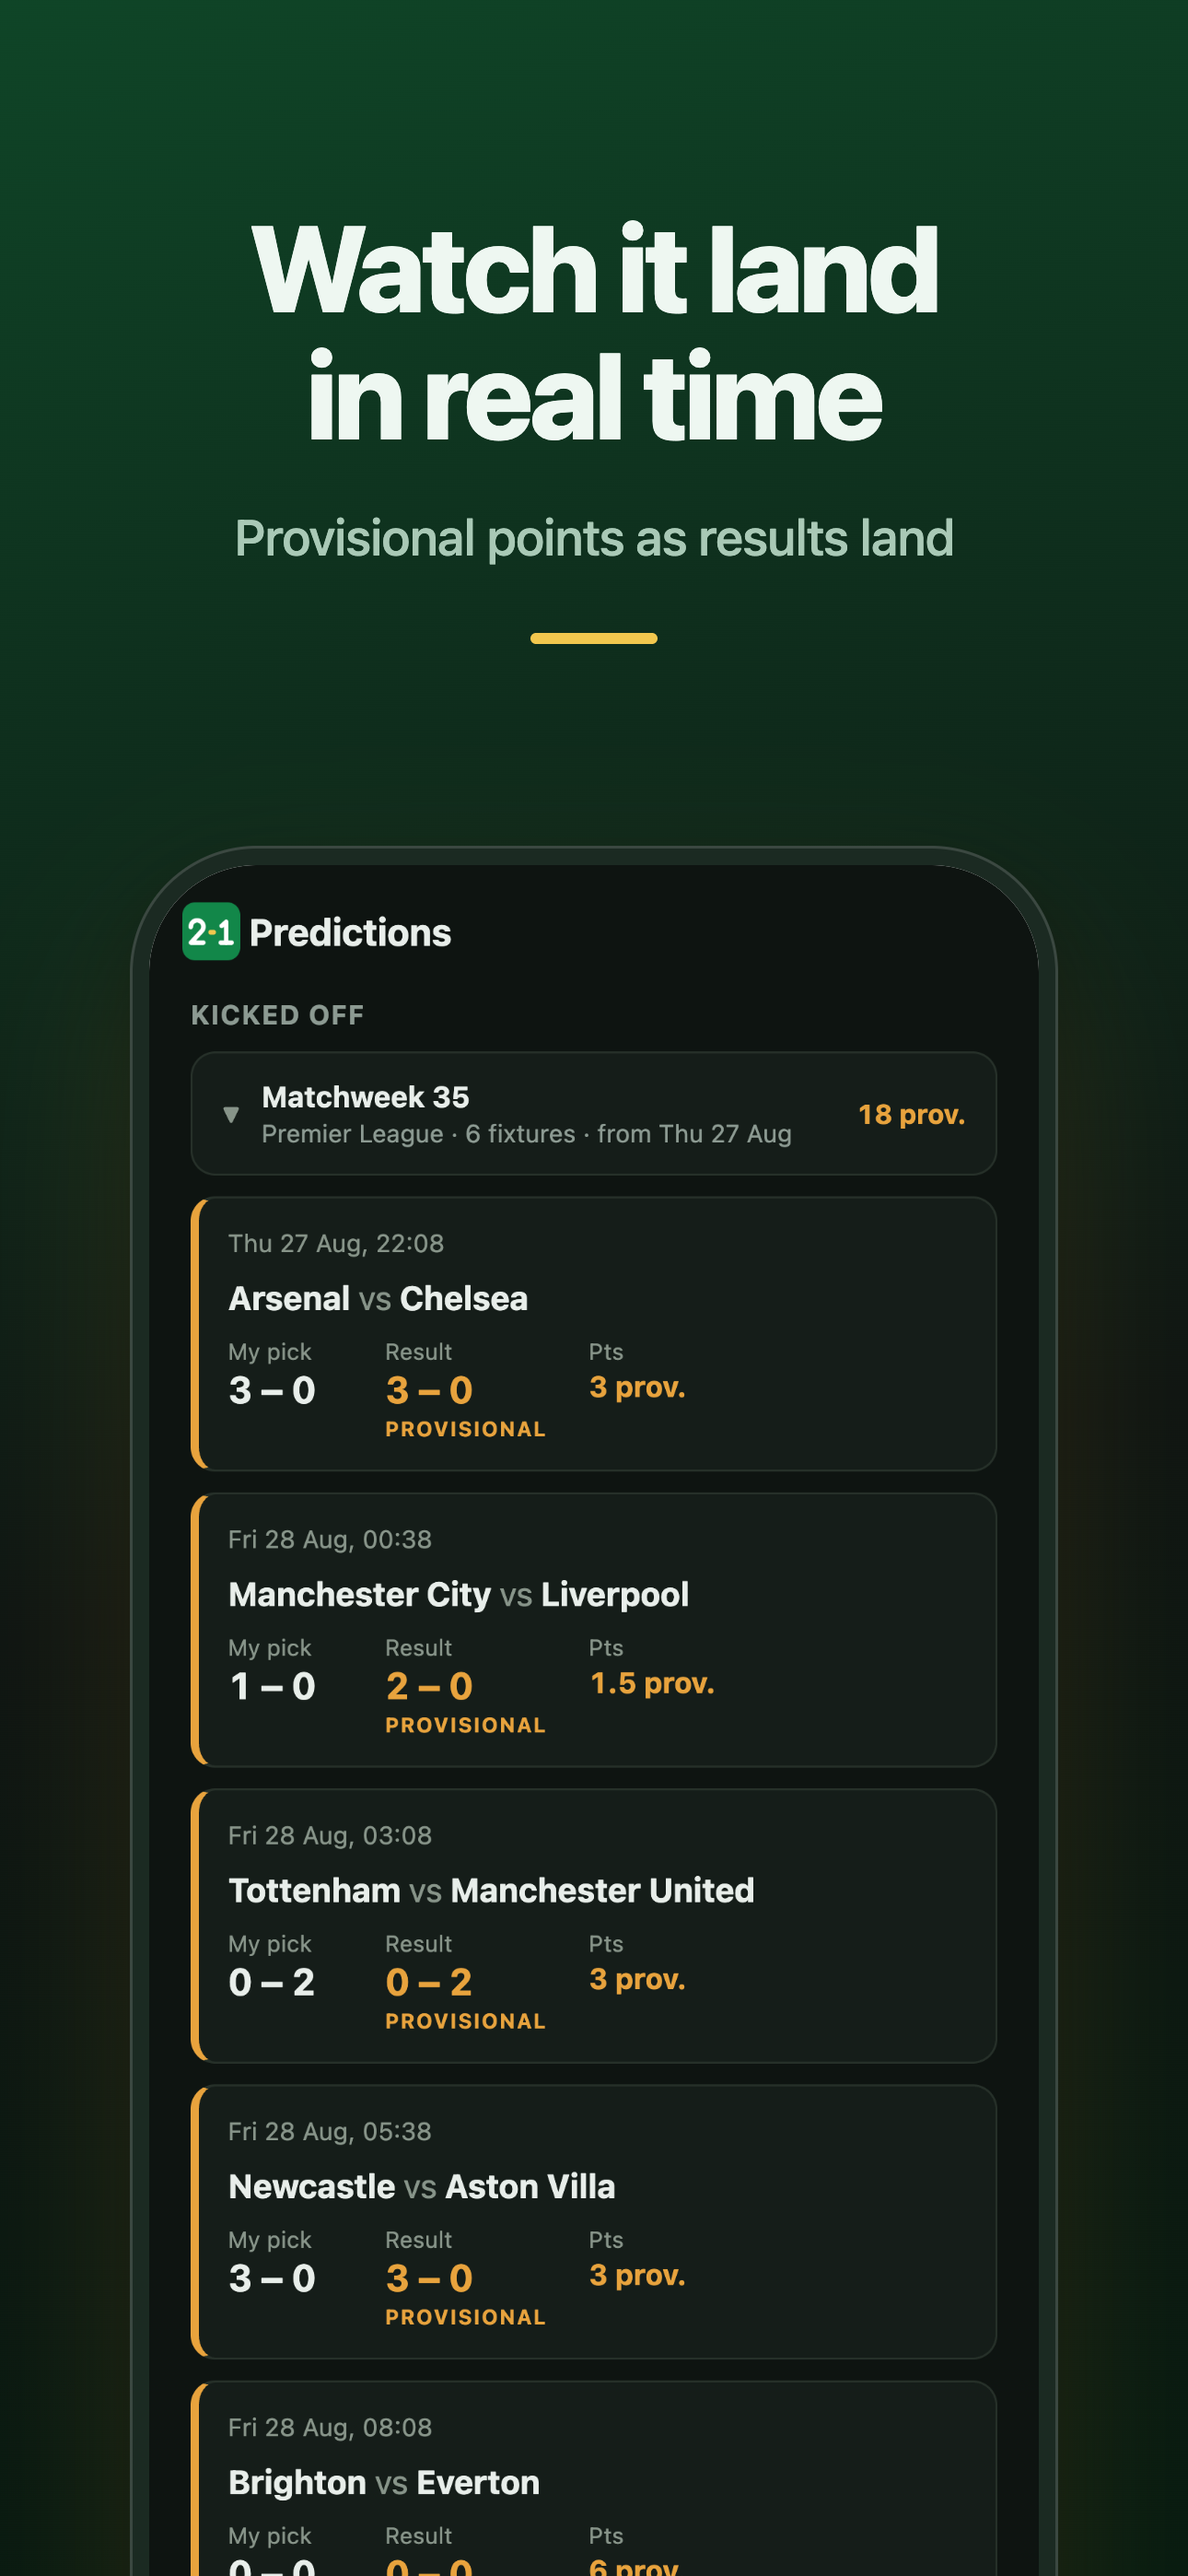
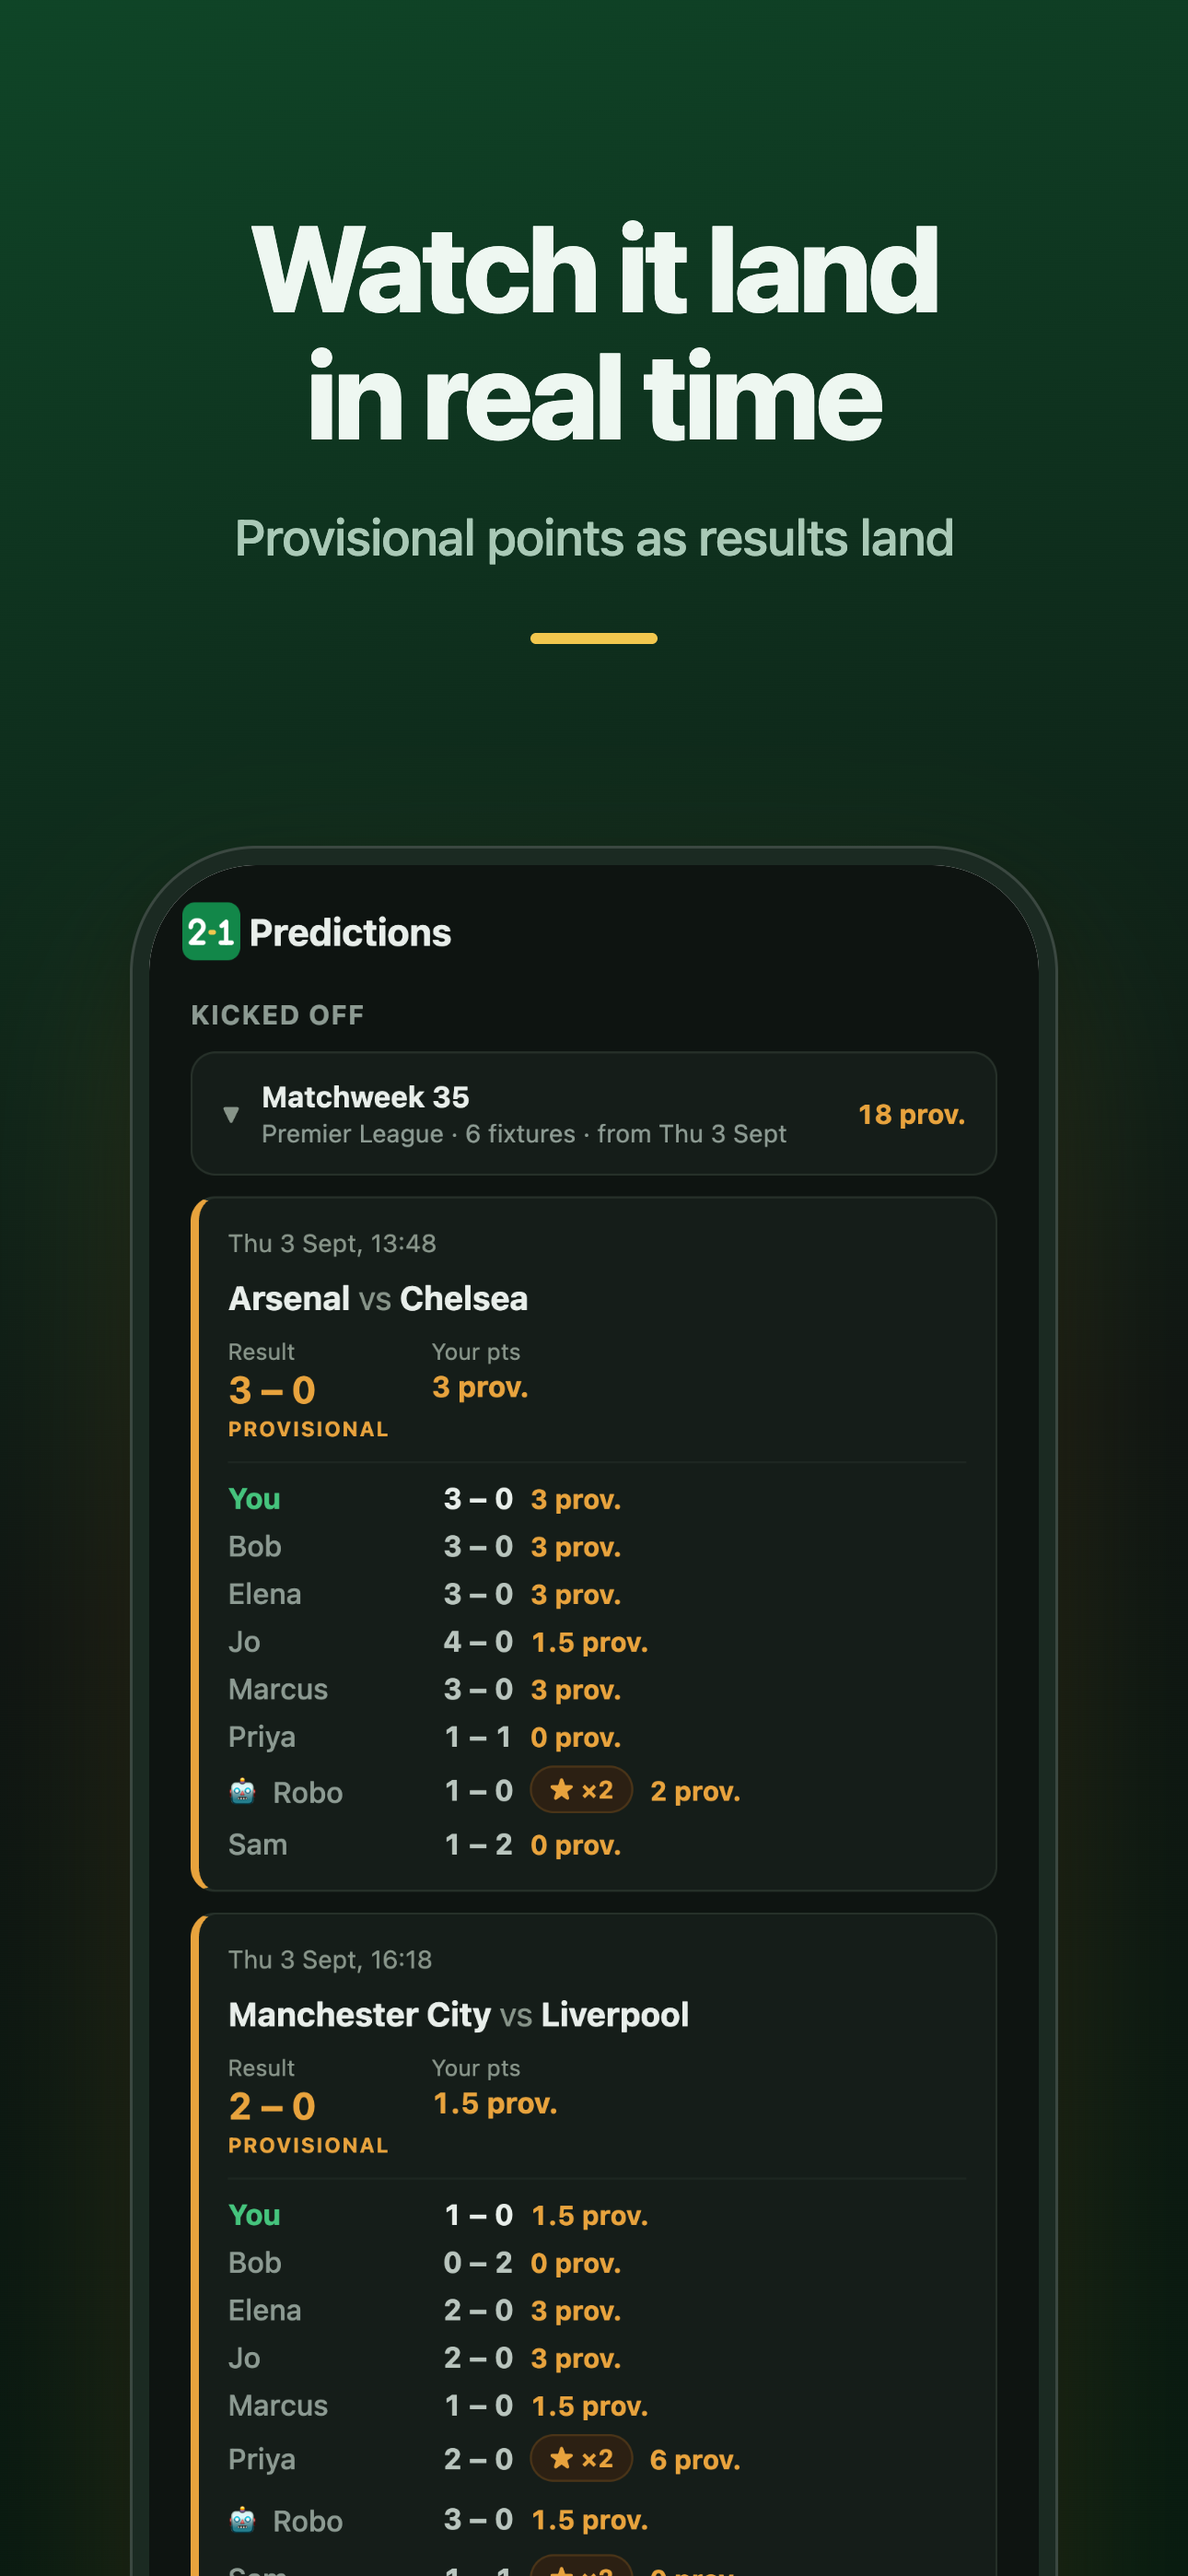
Recapture the store screenshots against the merged app
Fixes two things the capture surfaced, both mine from the merge commit.

The Results tab was registered twice in (tabs)/_layout.tsx. The merge had
already brought main's registration across; I added a second one on top without
checking, and Expo Router threw "Screen names must be unique" on every screen.
The capture still exited 0 and wrote eight PNGs of the red error page — which is
why these were checked by eye rather than trusted.

capture-store-shots.mjs reached the settled rounds by loading "/" and scrolling
to a "RESULTS" heading. That heading moved to its own tab, so the scroll silently
no-oped and 03-results captured the Predictions screen instead. It now loads
/results directly.

The new shots show what the merge was for: 02-provisional and 03-results carry
the full league-mate pick list — every player's score, banker tags and points
badges — which the pre-merge branch could not render at all.

Screens 04-06 came out byte-identical; those screens were untouched by the merge.

Captured from the real app under react-native-web at 430x932 @3x (1290x2796,
Apple's 6.9"), against the store demo seed.

Claude-Session: https://claude.ai/code/session_013cAm1uTw9gPRjbUytWacau

diff --git a/apps/mobile/app/(tabs)/_layout.tsx b/apps/mobile/app/(tabs)/_layout.tsx
@@ -62,19 +62,6 @@ export default function TabLayout() {
         }}
       />
       <Tabs.Screen
-        name="results"
-        options={{
-          title: "Results",
-          tabBarIcon: ({ color }) => (
-            <SymbolView
-              name={{ ios: "checkmark.seal", android: "task_alt", web: "task_alt" }}
-              tintColor={color}
-              size={26}
-            />
-          ),
-        }}
-      />
-      <Tabs.Screen
         name="leagues"
         options={{
           title: "Leagues",

diff --git a/docs/changelog.md b/docs/changelog.md
@@ -13,8 +13,8 @@ and the scoreboard UI, the other had league-mate picks, autosave and the
 Predictions/Results tab split. Merged them — `FixtureCard` keeps `main`'s behaviour in
 the branch's visual language — and fixed `results.tsx`, whose `onSave` prop had not been
 updated when autosave landed, leaving the mobile app failing `tsc` on `main`. Privacy
-policy is now linked from the Account screen and the sign-up form. Store screenshots are
-stale and need recapturing; see [store-release.md](store-release.md).
+policy is now linked from the Account screen and the sign-up form. Store screenshots
+recaptured against the merged app. See [store-release.md](store-release.md).
 
 ## 2026-09-04 — Host gameweek editor
 

diff --git a/docs/store-release.md b/docs/store-release.md
@@ -95,12 +95,6 @@ Then TestFlight → App Store review.
 
 ---
 
-> ⚠ **The committed screenshots are stale as of 2026-09-04.** They were captured on
-> 2026-08-28, before the App Store branch was reconciled with `main`. Since then the
-> prediction card has gained league-mate picks and autosave status, Results moved to
-> its own tab, and the account and sign-up screens gained privacy-policy links — so
-> what ships no longer matches the images. Re-run the capture below before submitting.
-
 ## Regenerating the store screenshots
 
 There is no iOS Simulator on this machine (Command Line Tools only), so the
